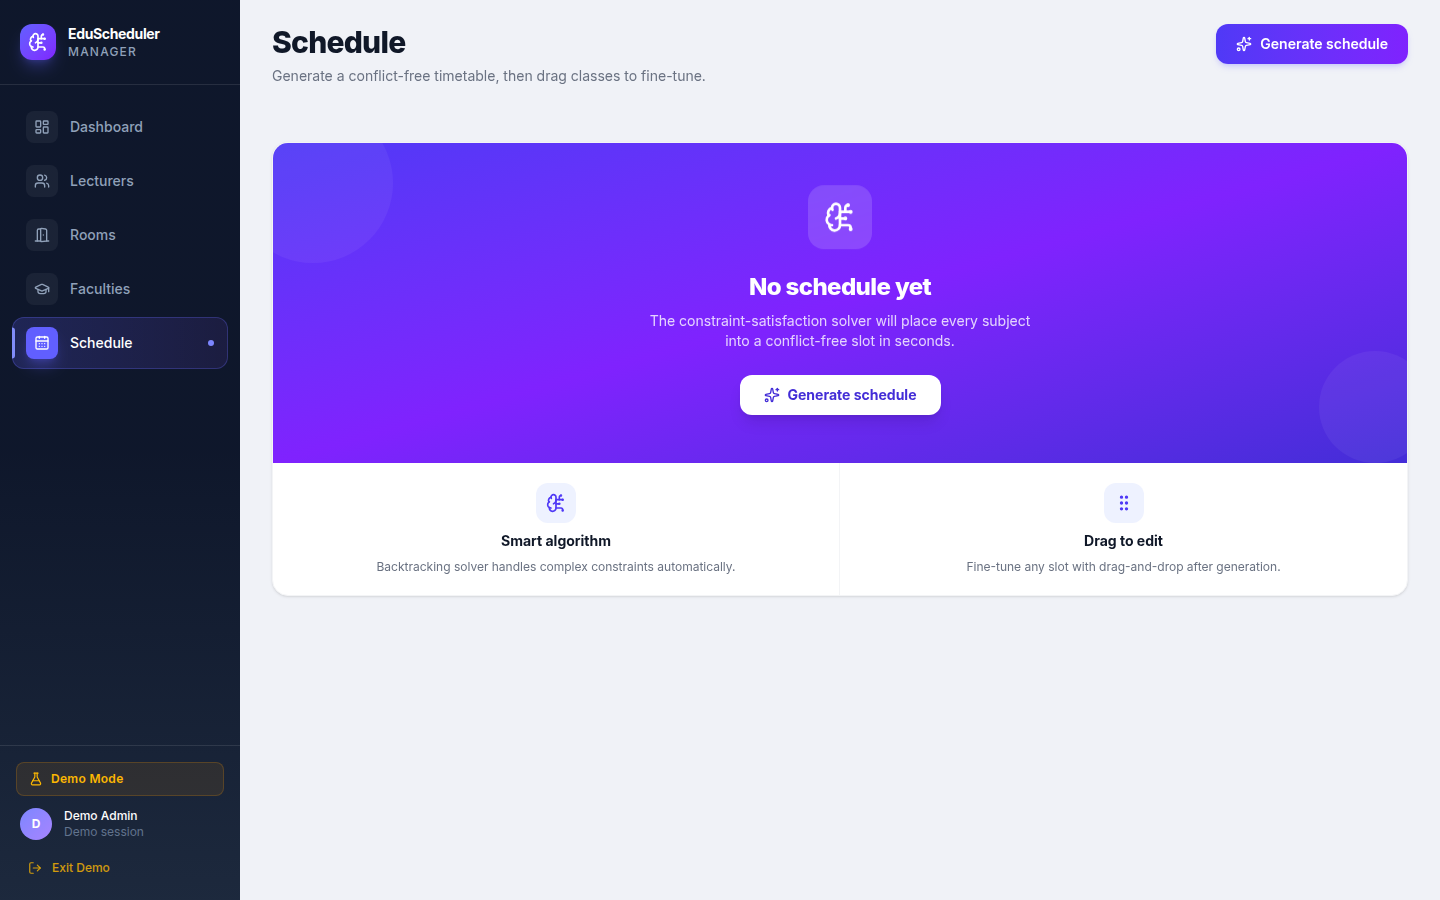
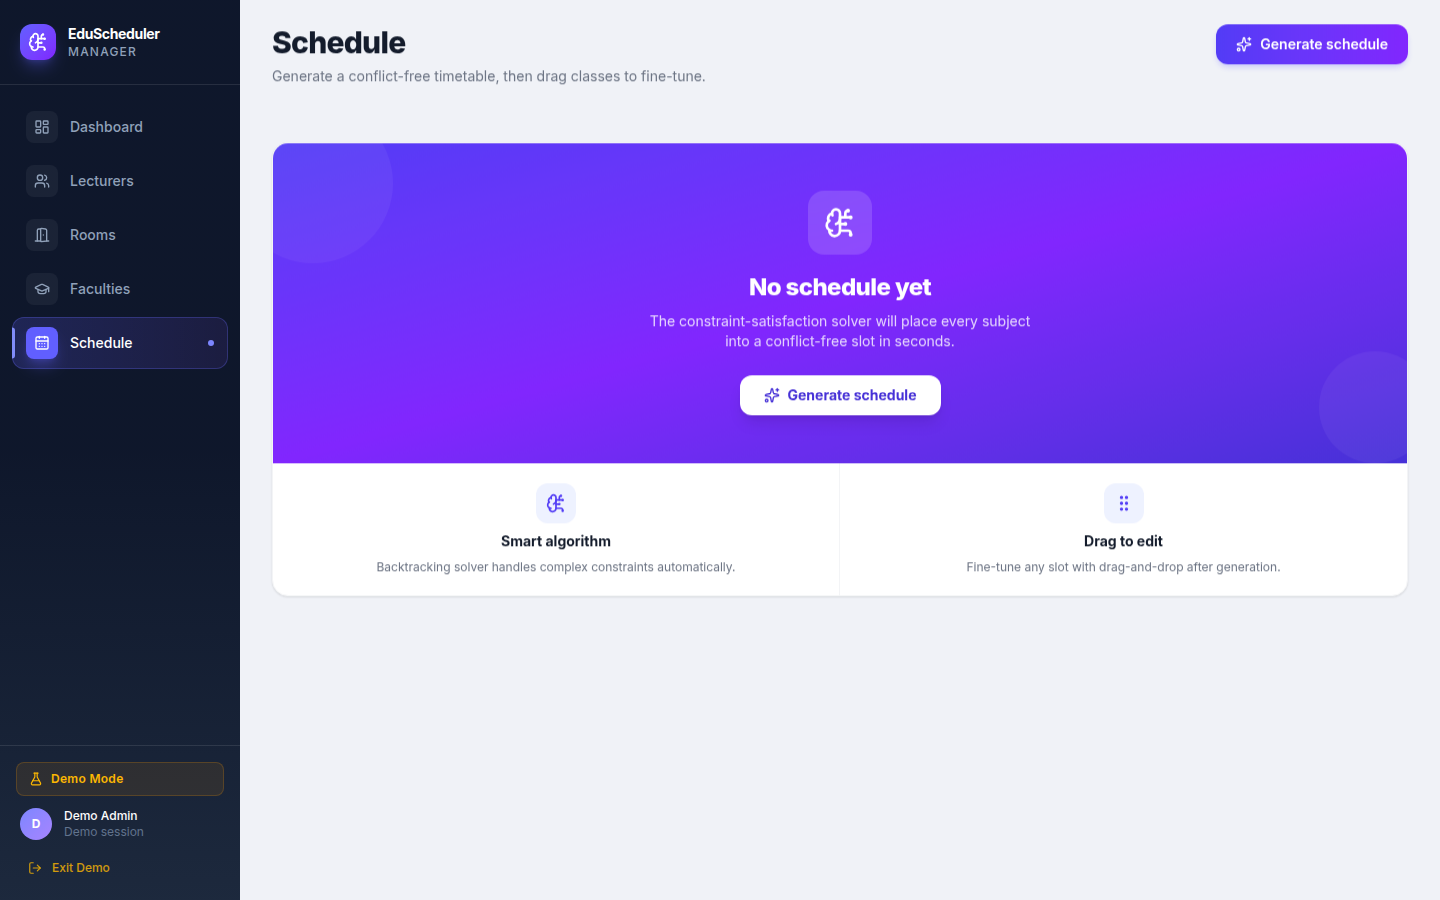
refactor: dedupe shared constants/components, remove dead CSS
- Shared LABEL style, CardActions, ROUTES map, uid() helper
- MIN/MAX_ROOM_CAPACITY + timetable label/grid constants
- Remove unused skeleton/scaleIn/gradientShift CSS

diff --git a/src/index.css b/src/index.css
@@ -65,24 +65,6 @@
 		opacity: 1;
 	}
 }
-@keyframes scaleIn {
-	from {
-		opacity: 0;
-		transform: scale(0.96);
-	}
-	to {
-		opacity: 1;
-		transform: scale(1);
-	}
-}
-@keyframes shimmer {
-	0% {
-		background-position: -400px 0;
-	}
-	100% {
-		background-position: 400px 0;
-	}
-}
 @keyframes float {
 	0%,
 	100% {
@@ -92,17 +74,6 @@
 		transform: translateY(-6px);
 	}
 }
-@keyframes gradientShift {
-	0% {
-		background-position: 0% 50%;
-	}
-	50% {
-		background-position: 100% 50%;
-	}
-	100% {
-		background-position: 0% 50%;
-	}
-}
 
 /* ─── Animation utilities ────────────────────────────────────────────────── */
 .animate-fade-up {
@@ -110,9 +81,6 @@
 }
 .animate-fade-in {
 	animation: fadeIn 0.3s ease both;
-}
-.animate-scale-in {
-	animation: scaleIn 0.3s ease both;
 }
 .animate-float {
 	animation: float 3s ease-in-out infinite;
@@ -171,13 +139,6 @@
 	height: 60%;
 	border-radius: 0 3px 3px 0;
 	background: #818cf8; /* indigo-400 — visible on dark sidebar */
-}
-
-/* ─── Skeleton shimmer ────────────────────────────────────────────────────── */
-.skeleton {
-	background: linear-gradient(90deg, #f1f5f9 25%, #e2e8f0 50%, #f1f5f9 75%);
-	background-size: 400px 100%;
-	animation: shimmer 1.5s infinite;
 }
 
 /* ─── Base ────────────────────────────────────────────────────────────────── */
